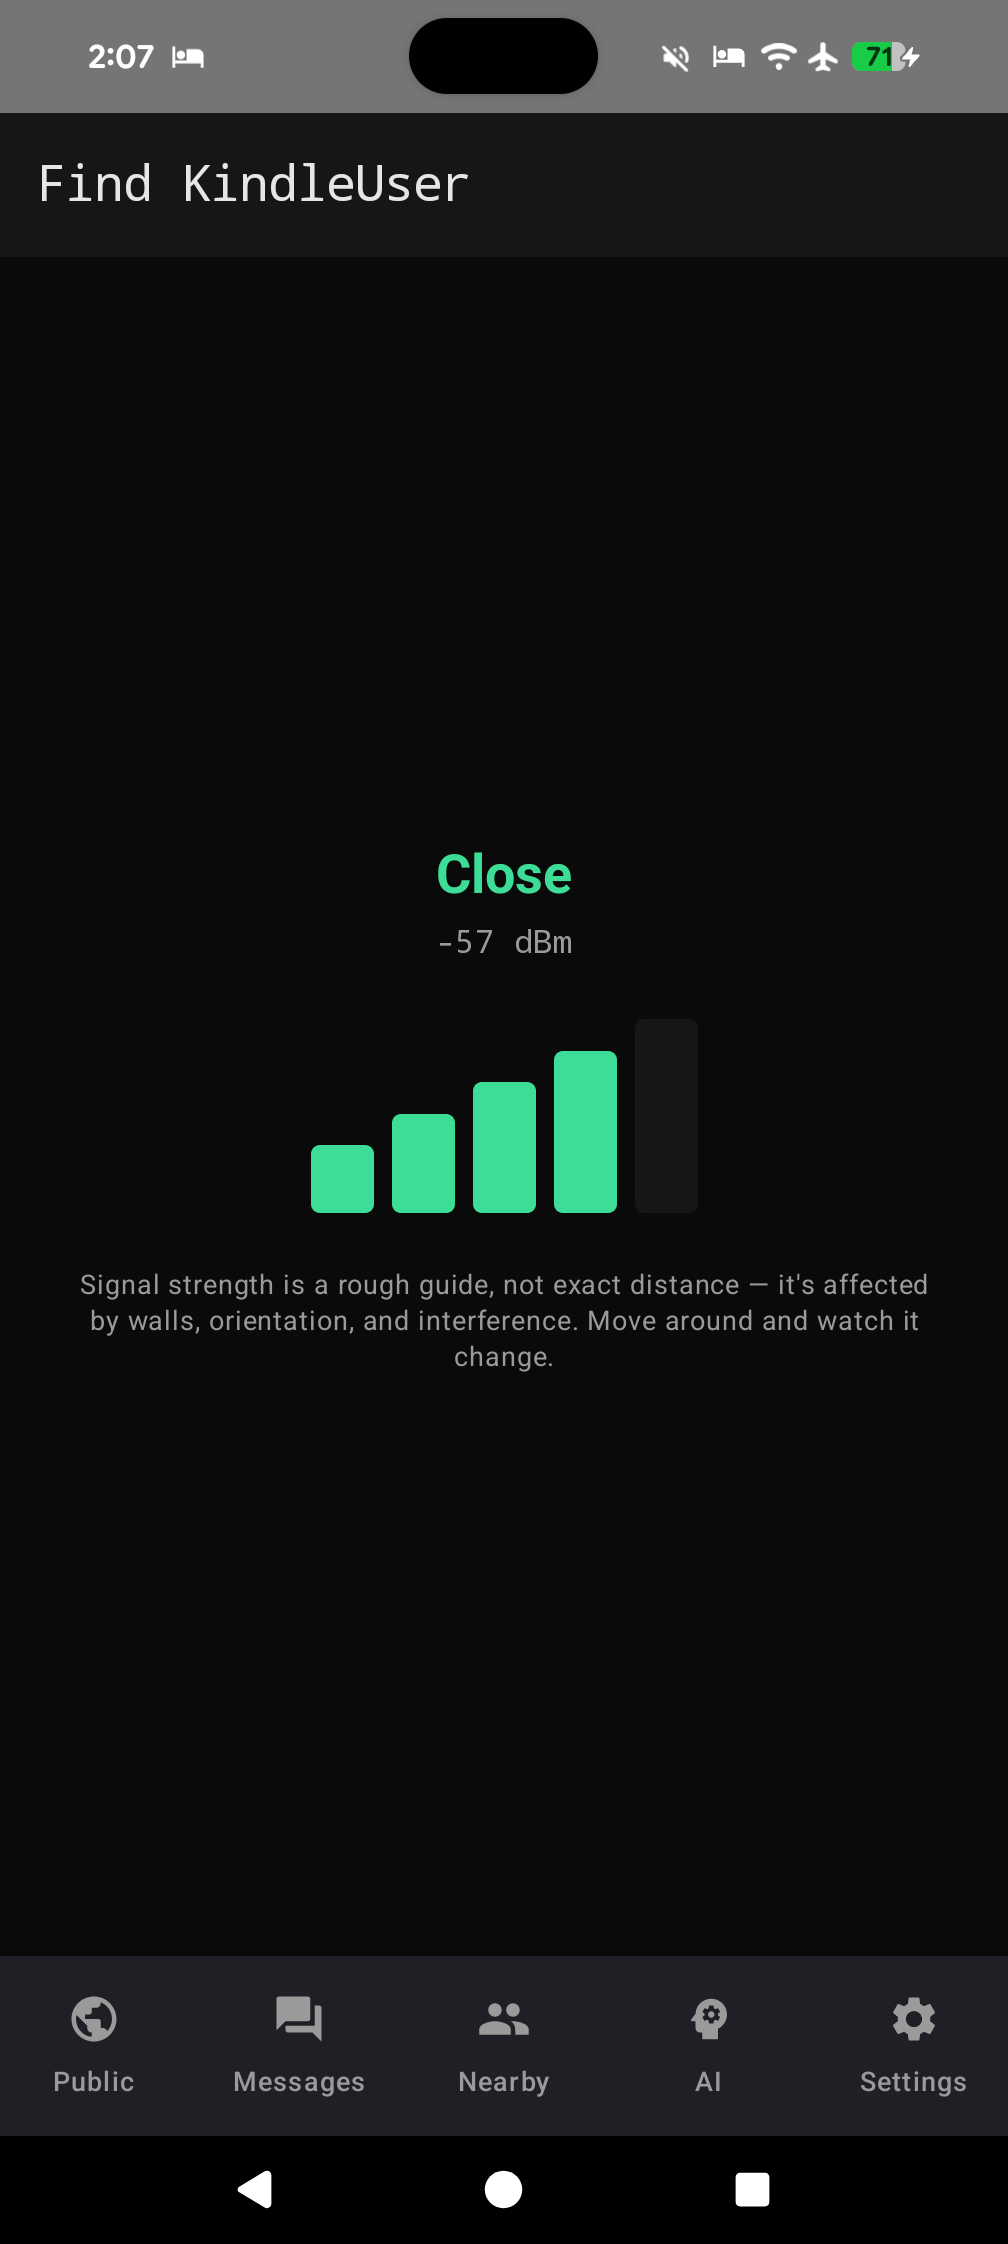
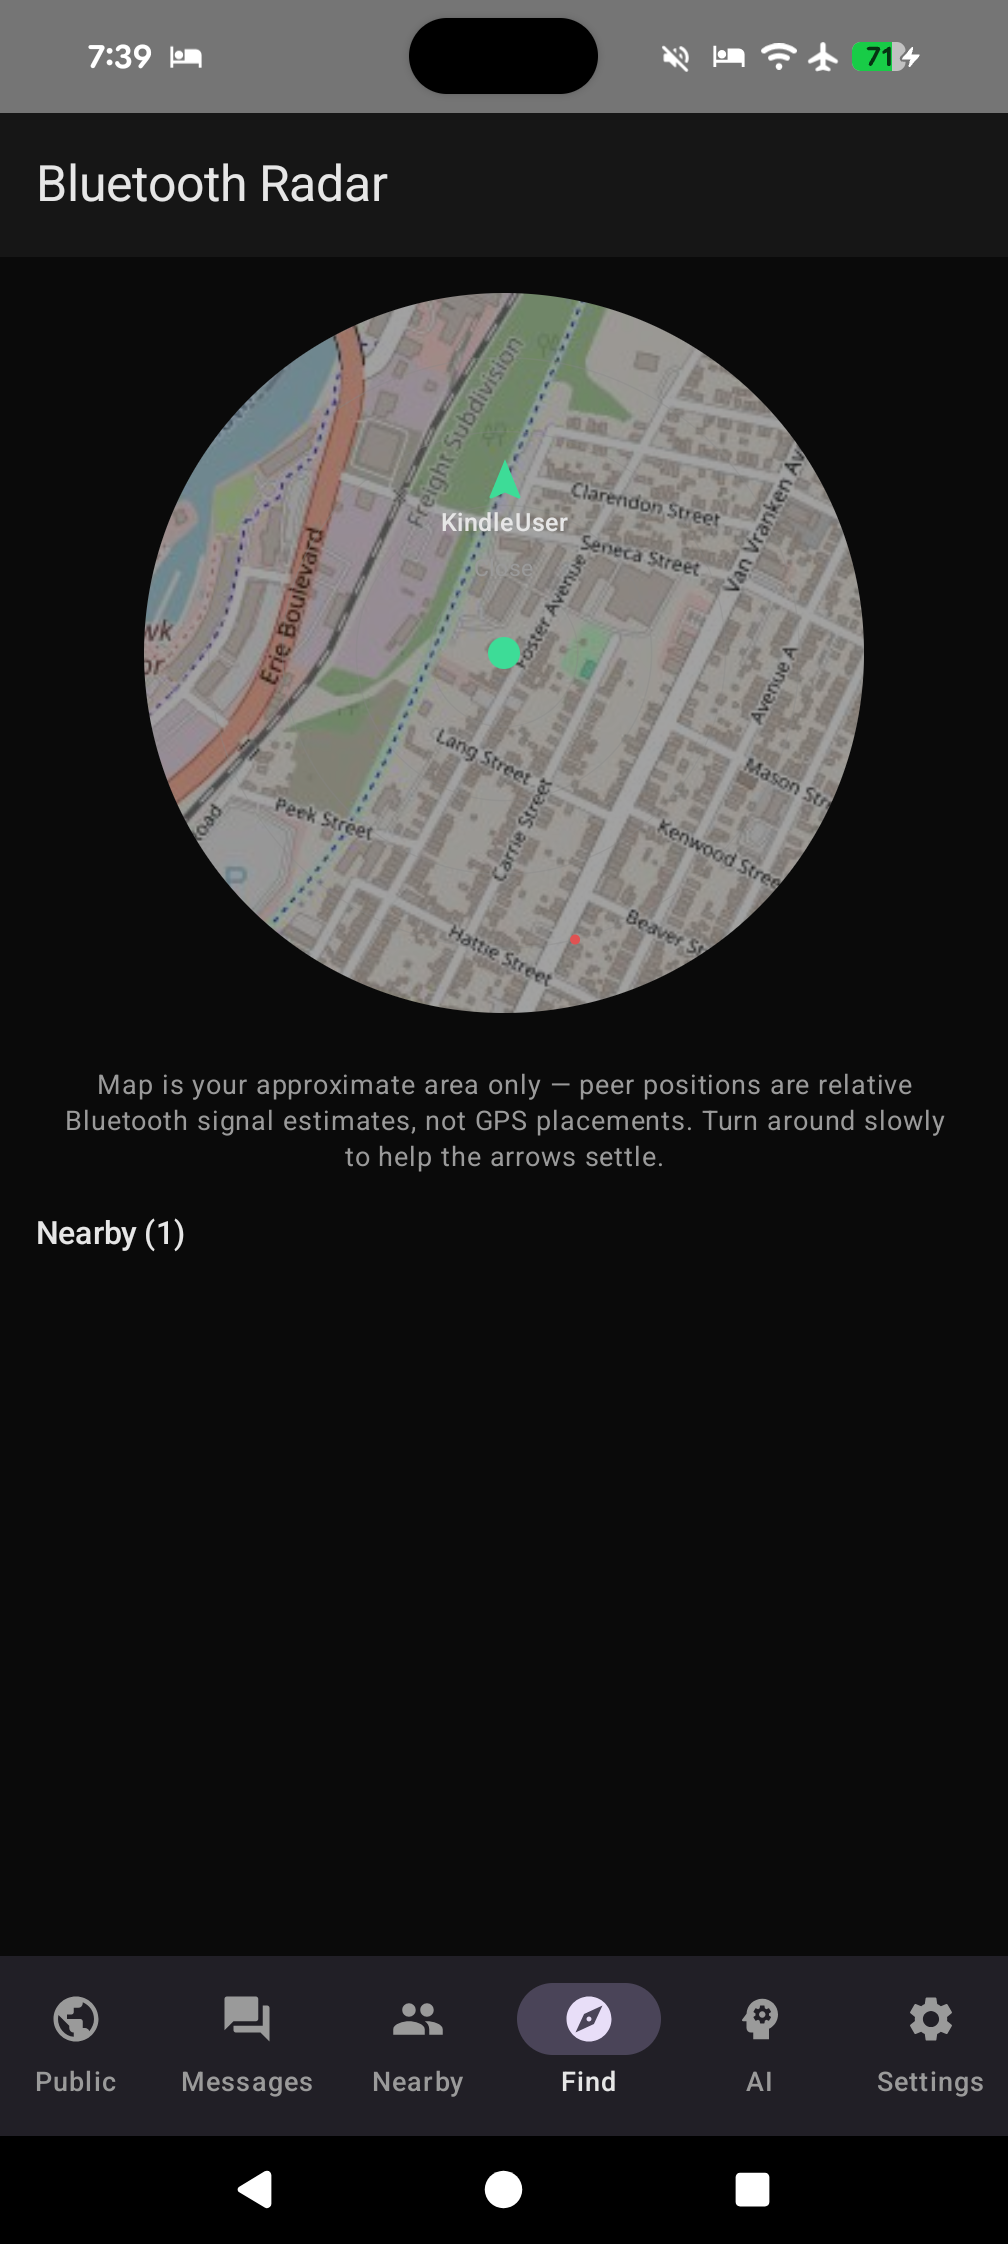
Fix dead static-map domain and add a direction arrow to the single-contact Find screen
- staticmap.openstreetmap.de (a third-party static-map proxy) no longer
  resolves at all (confirmed NXDOMAIN from both a phone with working
  internet and the dev host) — it wasn't a connectivity problem, the
  service itself is gone. Replaced it with real OpenStreetMap raster
  tiles (tile.openstreetmap.org, the actual public tile server, no API
  key), stitched into a 3x3 grid and cropped to the exact coordinates
  so the pin lands in the right place, with the pin now drawn locally
  instead of requested from a "markers=" query param. Fixes both the
  shared-location thumbnail and the radar tab's map backdrop.
- Tapping a peer on the Bluetooth radar now opens the single-contact
  Find screen (previously jumped straight to the DM thread), which
  also gained the same rolling compass-heading/RSSI direction arrow
  the radar uses, so both Find views show direction, not just signal
  bars.

diff --git a/app/src/main/java/com/charles/meshtalk/app/media/LocationSharing.kt b/app/src/main/java/com/charles/meshtalk/app/media/LocationSharing.kt
@@ -3,6 +3,9 @@ package com.charles.meshtalk.app.media
 import android.content.Context
 import android.graphics.Bitmap
 import android.graphics.BitmapFactory
+import android.graphics.Canvas
+import android.graphics.Color
+import android.graphics.Paint
 import android.location.Location
 import android.location.LocationListener
 import android.location.LocationManager
@@ -12,6 +15,13 @@ import android.os.Looper
 import java.io.ByteArrayOutputStream
 import java.net.HttpURLConnection
 import java.net.URL
+import kotlin.math.PI
+import kotlin.math.atan
+import kotlin.math.floor
+import kotlin.math.ln
+import kotlin.math.pow
+import kotlin.math.sinh
+import kotlin.math.tan
 
 /** Gets a single current location fix; calls back on the main thread with null on failure/timeout. */
 object LocationFetcher {
@@ -57,34 +67,118 @@ object LocationFetcher {
 }
 
 /**
- * Fetches a small static map thumbnail (OpenStreetMap tile render, no API key needed) centered on
- * a pin at the given coordinates, re-compressed to a predictable small size — same treatment as a
- * regular photo attachment, so once it's on the mesh the recipient needs no internet to see it.
- * Returns null if there's no connectivity or the fetch/decode fails; callers should fall back to
- * coordinates-only in that case.
+ * Fetches a small static map thumbnail centered on the given coordinates, stitched together from
+ * standard OpenStreetMap raster tiles (tile.openstreetmap.org — the real public tile server, no
+ * API key needed) with an optional pin drawn on top, re-compressed to a predictable small size —
+ * same treatment as a regular photo attachment, so once it's on the mesh the recipient needs no
+ * internet to see it. Returns null if there's no connectivity or the fetch/decode fails; callers
+ * should fall back to coordinates-only in that case.
+ *
+ * (An earlier version of this pointed at staticmap.openstreetmap.de, a third-party static-map
+ * proxy that turned out to no longer resolve at all — not a connectivity issue, the domain itself
+ * is gone. Tiling directly from the real OSM tile server avoids depending on a proxy's uptime.)
  */
 object StaticMapFetcher {
     private const val MAX_MAP_BYTES = 50_000
+    private const val TILE_SIZE = 256
+    private const val GRID = 3 // 3x3 tiles stitched, then cropped to the final output size
+    // OSM's tile usage policy requires a descriptive User-Agent identifying the app.
+    private const val USER_AGENT = "MeshTalk-Android/1.0 (+https://github.com/chartmann1590/bluetooth-chat)"
+    private const val OUTPUT_WIDTH = 400
+    private const val OUTPUT_HEIGHT = 300
 
     fun fetchJpeg(latitude: Double, longitude: Double, zoom: Int = 16, withMarker: Boolean = true): ByteArray? {
         return try {
-            val markerParam = if (withMarker) "&markers=$latitude,$longitude,lightblue1" else ""
-            val url = "https://staticmap.openstreetmap.de/staticmap.php" +
-                "?center=$latitude,$longitude&zoom=$zoom&size=400x300&maptype=mapnik$markerParam"
-            val connection = (URL(url).openConnection() as HttpURLConnection).apply {
-                connectTimeout = 8000
-                readTimeout = 8000
-                requestMethod = "GET"
-            }
-            val rawBytes = connection.inputStream.use { it.readBytes() }
-            compressToJpeg(rawBytes)
+            val stitched = fetchStitchedTiles(latitude, longitude, zoom) ?: return null
+            val cropped = cropCenteredOn(stitched, latitude, longitude, zoom)
+            stitched.recycle()
+            if (withMarker) drawPin(cropped)
+            compressToJpeg(cropped)
         } catch (e: Exception) {
             null
         }
     }
 
-    private fun compressToJpeg(rawBytes: ByteArray): ByteArray? {
-        val bitmap = BitmapFactory.decodeByteArray(rawBytes, 0, rawBytes.size) ?: return null
+    private fun lonToTileX(lon: Double, zoom: Int): Double = (lon + 180.0) / 360.0 * (1 shl zoom)
+
+    private fun latToTileY(lat: Double, zoom: Int): Double {
+        val latRad = Math.toRadians(lat)
+        return (1.0 - ln(tan(latRad) + 1.0 / cos(latRad)) / PI) / 2.0 * (1 shl zoom)
+    }
+
+    private fun cos(x: Double) = kotlin.math.cos(x)
+
+    private fun fetchStitchedTiles(latitude: Double, longitude: Double, zoom: Int): Bitmap? {
+        val centerTileX = floor(lonToTileX(longitude, zoom)).toInt()
+        val centerTileY = floor(latToTileY(latitude, zoom)).toInt()
+        val half = GRID / 2
+        val stitched = Bitmap.createBitmap(GRID * TILE_SIZE, GRID * TILE_SIZE, Bitmap.Config.ARGB_8888)
+        val canvas = Canvas(stitched)
+        var fetchedAny = false
+        for (row in 0 until GRID) {
+            for (col in 0 until GRID) {
+                val tx = centerTileX - half + col
+                val ty = centerTileY - half + row
+                val tileBytes = fetchTile(tx, ty, zoom) ?: continue
+                val tileBitmap = BitmapFactory.decodeByteArray(tileBytes, 0, tileBytes.size) ?: continue
+                canvas.drawBitmap(tileBitmap, (col * TILE_SIZE).toFloat(), (row * TILE_SIZE).toFloat(), null)
+                tileBitmap.recycle()
+                fetchedAny = true
+            }
+        }
+        if (!fetchedAny) {
+            stitched.recycle()
+            return null
+        }
+        return stitched
+    }
+
+    private fun fetchTile(x: Int, y: Int, zoom: Int): ByteArray? {
+        val n = 1 shl zoom
+        if (x < 0 || y < 0 || x >= n || y >= n) return null
+        return try {
+            val url = "https://tile.openstreetmap.org/$zoom/$x/$y.png"
+            val connection = (URL(url).openConnection() as HttpURLConnection).apply {
+                connectTimeout = 8000
+                readTimeout = 8000
+                requestMethod = "GET"
+                setRequestProperty("User-Agent", USER_AGENT)
+            }
+            connection.inputStream.use { it.readBytes() }
+        } catch (e: Exception) {
+            null
+        }
+    }
+
+    /** Crops the stitched tile grid to [OUTPUT_WIDTH]x[OUTPUT_HEIGHT], centered on the exact pixel
+     * the coordinates fall at (not just the tile boundary), clamped to stay inside the bitmap. */
+    private fun cropCenteredOn(stitched: Bitmap, latitude: Double, longitude: Double, zoom: Int): Bitmap {
+        val half = GRID / 2
+        val centerTileX = floor(lonToTileX(longitude, zoom))
+        val centerTileY = floor(latToTileY(latitude, zoom))
+        val exactX = lonToTileX(longitude, zoom)
+        val exactY = latToTileY(latitude, zoom)
+        val pixelX = ((half + (exactX - centerTileX)) * TILE_SIZE).toInt()
+        val pixelY = ((half + (exactY - centerTileY)) * TILE_SIZE).toInt()
+
+        val left = (pixelX - OUTPUT_WIDTH / 2).coerceIn(0, stitched.width - OUTPUT_WIDTH)
+        val top = (pixelY - OUTPUT_HEIGHT / 2).coerceIn(0, stitched.height - OUTPUT_HEIGHT)
+        return Bitmap.createBitmap(stitched, left, top, OUTPUT_WIDTH, OUTPUT_HEIGHT)
+    }
+
+    private fun drawPin(bitmap: Bitmap) {
+        val canvas = Canvas(bitmap)
+        val cx = bitmap.width / 2f
+        val cy = bitmap.height / 2f
+        val paint = Paint(Paint.ANTI_ALIAS_FLAG)
+        paint.style = Paint.Style.FILL
+        paint.color = Color.WHITE
+        canvas.drawCircle(cx, cy, 11f, paint)
+        paint.color = Color.rgb(0x33, 0xCC, 0x99) // matches the app's signal-green accent
+        canvas.drawCircle(cx, cy, 8f, paint)
+    }
+
+    private fun compressToJpeg(bitmap: Bitmap): ByteArray? {
         var quality = 85
         var out = encode(bitmap, quality)
         while (out.size > MAX_MAP_BYTES && quality > 30) {

diff --git a/app/src/main/java/com/charles/meshtalk/app/ui/BleProximity.kt b/app/src/main/java/com/charles/meshtalk/app/ui/BleProximity.kt
@@ -1,5 +1,17 @@
 package com.charles.meshtalk.app.ui
 
+import androidx.compose.runtime.Composable
+import androidx.compose.runtime.LaunchedEffect
+import androidx.compose.runtime.getValue
+import androidx.compose.runtime.mutableStateOf
+import androidx.compose.runtime.remember
+import androidx.compose.runtime.rememberUpdatedState
+import androidx.compose.runtime.setValue
+import kotlinx.coroutines.delay
+import kotlin.math.atan2
+import kotlin.math.cos
+import kotlin.math.sin
+
 /** Coarse "how close" label + signal-bar count from a raw BLE RSSI reading (dBm). Shared by the
  * single-contact Find screen and the multi-peer Bluetooth radar screen. */
 fun proximityFor(rssi: Int): Pair<String, Int> = when {
@@ -17,4 +29,48 @@ fun proximityRadiusFraction(rssi: Int): Float {
     val far = -95f
     val clamped = rssi.toFloat().coerceIn(far, near)
     return (near - clamped) / (near - far)
+}
+
+private data class HeadingSample(val heading: Float, val rssi: Int, val time: Long)
+
+/**
+ * A rough bearing (degrees, 0 = north) to a single BLE peer: the circular mean of recent compass
+ * headings weighted by how strong the signal was at each heading, so it drifts toward "whichever
+ * way I was facing when the signal was strongest" as you turn or walk around. Returns null until
+ * the peer is detected and at least one sample has been taken. Same technique as the multi-peer
+ * radar screen, factored out here for the single-contact Find screen.
+ */
+@Composable
+fun rememberSignalBearing(heading: Float, rssi: Int?): Float? {
+    var bearing by remember { mutableStateOf<Float?>(null) }
+    val history = remember { mutableListOf<HeadingSample>() }
+    val currentHeading = rememberUpdatedState(heading)
+    val currentRssi = rememberUpdatedState(rssi)
+
+    LaunchedEffect(Unit) {
+        while (true) {
+            delay(500)
+            val r = currentRssi.value
+            if (r == null) {
+                history.clear()
+                bearing = null
+                continue
+            }
+            val now = System.currentTimeMillis()
+            history.add(HeadingSample(currentHeading.value, r, now))
+            history.removeAll { now - it.time > 12_000 }
+            if (history.isEmpty()) continue
+            val minRssi = history.minOf { it.rssi }
+            var sumSin = 0.0
+            var sumCos = 0.0
+            for (s in history) {
+                val weight = (s.rssi - minRssi + 1).toDouble()
+                val rad = Math.toRadians(s.heading.toDouble())
+                sumSin += sin(rad) * weight
+                sumCos += cos(rad) * weight
+            }
+            bearing = ((Math.toDegrees(atan2(sumSin, sumCos)) + 360) % 360).toFloat()
+        }
+    }
+    return bearing
 }

diff --git a/app/src/main/java/com/charles/meshtalk/app/ui/FindScreen.kt b/app/src/main/java/com/charles/meshtalk/app/ui/FindScreen.kt
@@ -9,9 +9,13 @@ import androidx.compose.foundation.layout.fillMaxSize
 import androidx.compose.foundation.layout.fillMaxWidth
 import androidx.compose.foundation.layout.height
 import androidx.compose.foundation.layout.padding
+import androidx.compose.foundation.layout.size
 import androidx.compose.foundation.layout.width
 import androidx.compose.foundation.shape.RoundedCornerShape
+import androidx.compose.material.icons.Icons
+import androidx.compose.material.icons.filled.Navigation
 import androidx.compose.material3.ExperimentalMaterial3Api
+import androidx.compose.material3.Icon
 import androidx.compose.material3.MaterialTheme
 import androidx.compose.material3.Text
 import androidx.compose.material3.TopAppBar
@@ -21,10 +25,12 @@ import androidx.compose.runtime.getValue
 import androidx.compose.ui.Alignment
 import androidx.compose.ui.Modifier
 import androidx.compose.ui.draw.clip
+import androidx.compose.ui.draw.rotate
 import androidx.compose.ui.text.font.FontFamily
 import androidx.compose.ui.text.font.FontWeight
 import androidx.compose.ui.unit.dp
 import com.charles.meshtalk.app.repository.MeshRepository
+import com.charles.meshtalk.app.sensors.rememberCompassHeading
 import com.charles.meshtalk.app.ui.theme.SignalGreen
 
 /**
@@ -39,6 +45,8 @@ fun FindScreen(repository: MeshRepository, peerKeyHex: String) {
     val rssiMap by repository.peerRssi.collectAsState()
     val nickname = contacts.firstOrNull { it.signingPubKeyHex == peerKeyHex }?.nickname ?: peerKeyHex.take(10)
     val rssi = rssiMap[peerKeyHex]
+    val heading by rememberCompassHeading()
+    val bearing = rememberSignalBearing(heading, rssi)
 
     Column(modifier = Modifier.fillMaxSize()) {
         TopAppBar(title = { Text("Find $nickname", fontFamily = FontFamily.Monospace) })
@@ -61,6 +69,13 @@ fun FindScreen(repository: MeshRepository, peerKeyHex: String) {
                     textAlign = androidx.compose.ui.text.style.TextAlign.Center
                 )
             } else {
+                val angleDeg = (bearing ?: heading) - heading
+                Icon(
+                    Icons.Filled.Navigation,
+                    contentDescription = "Direction to $nickname",
+                    tint = SignalGreen,
+                    modifier = Modifier.size(64.dp).rotate(angleDeg).padding(bottom = 8.dp)
+                )
                 val (label, filledBars) = proximityFor(rssi)
                 Text(label, style = MaterialTheme.typography.headlineSmall, color = SignalGreen, fontWeight = FontWeight.Bold)
                 Text(
@@ -73,7 +88,9 @@ fun FindScreen(repository: MeshRepository, peerKeyHex: String) {
                 SignalBars(filledBars = filledBars)
                 Text(
                     "Signal strength is a rough guide, not exact distance — it's affected by walls, " +
-                        "orientation, and interference. Move around and watch it change.",
+                        "orientation, and interference. The arrow is a rolling \"which way was the " +
+                        "signal strongest\" estimate, not a real compass bearing — turn around " +
+                        "slowly to help it settle.",
                     style = MaterialTheme.typography.bodySmall,
                     color = MaterialTheme.colorScheme.onSurfaceVariant,
                     modifier = Modifier.padding(top = 24.dp),

diff --git a/app/src/main/java/com/charles/meshtalk/app/ui/FindAllScreen.kt b/app/src/main/java/com/charles/meshtalk/app/ui/FindAllScreen.kt
@@ -60,7 +60,7 @@ import kotlin.math.cos
 import kotlin.math.min
 import kotlin.math.sin
 
-private data class HeadingSample(val heading: Float, val rssi: Int, val time: Long)
+private data class RadarHeadingSample(val heading: Float, val rssi: Int, val time: Long)
 
 /**
  * A live radar of everyone currently reachable over Bluetooth: a map of roughly where you are (best
@@ -105,7 +105,7 @@ fun FindAllScreen(repository: MeshRepository, onOpenPeer: (String) -> Unit) {
     val currentHeading = rememberUpdatedState(heading)
     val currentRssi = rememberUpdatedState(rssiMap)
     LaunchedEffect(Unit) {
-        val history = mutableMapOf<String, MutableList<HeadingSample>>()
+        val history = mutableMapOf<String, MutableList<RadarHeadingSample>>()
         while (true) {
             delay(500)
             val now = System.currentTimeMillis()
@@ -113,7 +113,7 @@ fun FindAllScreen(repository: MeshRepository, onOpenPeer: (String) -> Unit) {
             val rssiSnapshot = currentRssi.value
             for ((peerKey, rssi) in rssiSnapshot) {
                 val samples = history.getOrPut(peerKey) { mutableListOf() }
-                samples.add(HeadingSample(h, rssi, now))
+                samples.add(RadarHeadingSample(h, rssi, now))
                 samples.removeAll { now - it.time > 12_000 }
                 if (samples.isEmpty()) continue
                 val minRssi = samples.minOf { it.rssi }

diff --git a/app/src/main/java/com/charles/meshtalk/app/ui/MeshTalkApp.kt b/app/src/main/java/com/charles/meshtalk/app/ui/MeshTalkApp.kt
@@ -99,7 +99,7 @@ fun MeshTalkApp(
             ) }
             composable(ROUTE_AI_CHAT) { AiChatScreen() }
             composable(ROUTE_FIND_ALL) { FindAllScreen(repository, onOpenPeer = { peerKey ->
-                navController.navigate("dm/$peerKey")
+                navController.navigate("find/$peerKey")
             }) }
             composable(ROUTE_SETTINGS) { SettingsScreen(repository) }
             composable(ROUTE_DM_THREAD) { backStackEntry ->

diff --git a/README.md b/README.md
@@ -17,7 +17,7 @@ MeshTalk is a native Android chat app that talks over Bluetooth Low Energy (BLE)
 - **Location sharing** — share your current coordinates with a best-effort static map thumbnail (fetched once at send time, then carried over the mesh like a photo — no internet needed to view it after that); falls back to coordinates + "open in Maps" if no connectivity was available when sending.
 - **Typing indicators** — see "so-and-so is typing…" live in both the public feed and DM threads (ephemeral over-the-mesh signal, never stored or replayed to peers who reconnect later).
 - **On-device AI chat** — a private, fully-offline chat with Google's Gemma 4 model running locally via [LiteRT-LM](https://ai.google.dev/edge/litert), Google AI Edge's on-device LLM runtime. One-time ~2.6GB download, then works with zero connectivity forever after; nothing typed here ever goes over the mesh. Uses the on-device GPU delegate when available, falling back to CPU automatically.
-- **Bluetooth proximity finder** — when GPS and internet are both unavailable, find a nearby contact by raw Bluetooth signal strength (RSSI): a live signal-strength gauge and "Very close" → "Very far" estimate. Requires the other person to have their "Tracking beacon" enabled in Settings (which just advertises more frequently — anyone scanning can already see raw signal strength regardless).
+- **Bluetooth proximity finder** — when GPS and internet are both unavailable, find a nearby contact by raw Bluetooth signal strength (RSSI): a live signal-strength gauge, a directional arrow (a rolling "which way was the signal strongest" estimate as you turn), and "Very close" → "Very far" estimate. Requires the other person to have their "Tracking beacon" enabled in Settings (which just advertises more frequently — anyone scanning can already see raw signal strength regardless).
 - **Bluetooth radar tab** — an opt-in "Find" tab (Settings toggle) showing a live map/radar of everyone currently reachable over BLE at once, each plotted with an arrow (a rolling "which way was the signal strongest" estimate as you turn) and an approximate distance from RSSI. The map backdrop is your rough area only, fetched once and cached offline for reuse with no connectivity.
 - **Offline map caching** — map images (for shared locations and the radar backdrop) are cached to disk the first time they're fetched, keyed by a coarse lat/lon grid cell, so viewing the same area again later works with no internet.
 - **On-device AI download during onboarding** — new installs are offered a one-tap opt-in to start the Gemma 4 download right away (continues in the background regardless of which screen you're on); skip it and download later from the AI tab instead.
@@ -64,7 +64,9 @@ Packets are signed, optionally encrypted, fragmented to fit the negotiated BLE M
 
 Because real-world BLE throughput is roughly 1–3 KB/s in this design, photos are automatically downscaled/recompressed and generic files are capped at a small size — large transfers are much more likely to span a connection drop than short ones, and there's no resume-on-failure.
 
-Typing indicators reuse the same signed-packet mesh transport as everything else, just with a short TTL and a separate ephemeral dedup cache — they're never persisted or replayed to a peer that reconnects later. The Bluetooth proximity finder (and the Find radar tab) reads the RSSI (signal strength) BLE already reports for each nearby advertiser and maps it to a rough "how close" estimate; it doesn't use GPS at all, so it keeps working with location services and mobile data both off. The radar's arrow direction is derived from a short rolling history of (compass heading, RSSI) samples — it's a "hunt for the strongest signal" aid, not real Bluetooth direction-finding hardware. The on-device AI chat is a separate, local-only feature — it downloads and runs Google's Gemma 4 model directly on the phone via LiteRT-LM, and nothing typed into it is ever sent over the mesh or the internet after the initial model download.
+Typing indicators reuse the same signed-packet mesh transport as everything else, just with a short TTL and a separate ephemeral dedup cache — they're never persisted or replayed to a peer that reconnects later. The Bluetooth proximity finder (both the single-contact Find screen and the radar tab) reads the RSSI (signal strength) BLE already reports for each nearby advertiser and maps it to a rough "how close" estimate; it doesn't use GPS at all, so it keeps working with location services and mobile data both off. Both screens' arrow direction is derived from a short rolling history of (compass heading, RSSI) samples — it's a "hunt for the strongest signal" aid, not real Bluetooth direction-finding hardware. The on-device AI chat is a separate, local-only feature — it downloads and runs Google's Gemma 4 model directly on the phone via LiteRT-LM, and nothing typed into it is ever sent over the mesh or the internet after the initial model download.
+
+Map images (the radar's backdrop and the pin thumbnail for a shared location) are stitched together from real [OpenStreetMap raster tiles](https://tile.openstreetmap.org/) — the same public tile server OSM's own site uses, fetched directly with no API key and no third-party proxy in between.
 
 Edits, deletes, and reactions are new packet types (`EDIT`/`DELETE`/`REACTION`) on the same signed mesh transport: public ones are plaintext+broadcast like a public message, DM ones are encrypted the same way the original DM was. Every recipient — not just the sender's own device — independently verifies that an edit/delete's claimed sender matches the message's actual original sender before applying it, so only the real author can change or remove their message.
 